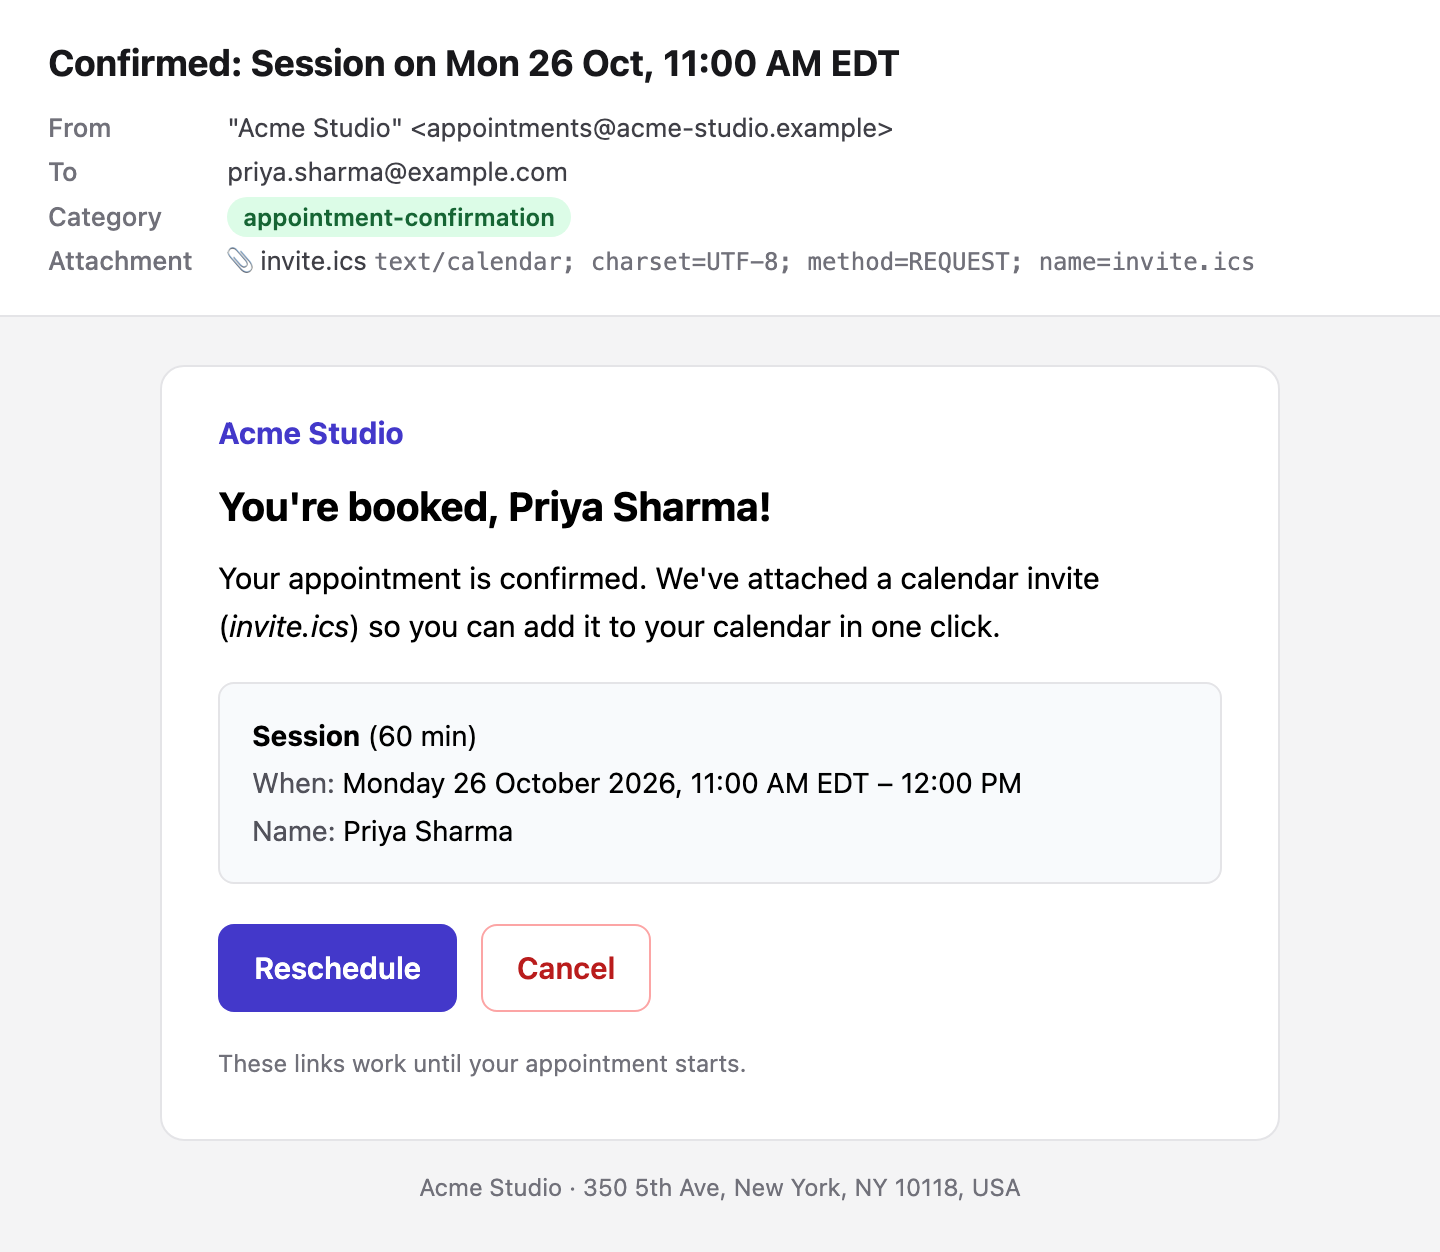
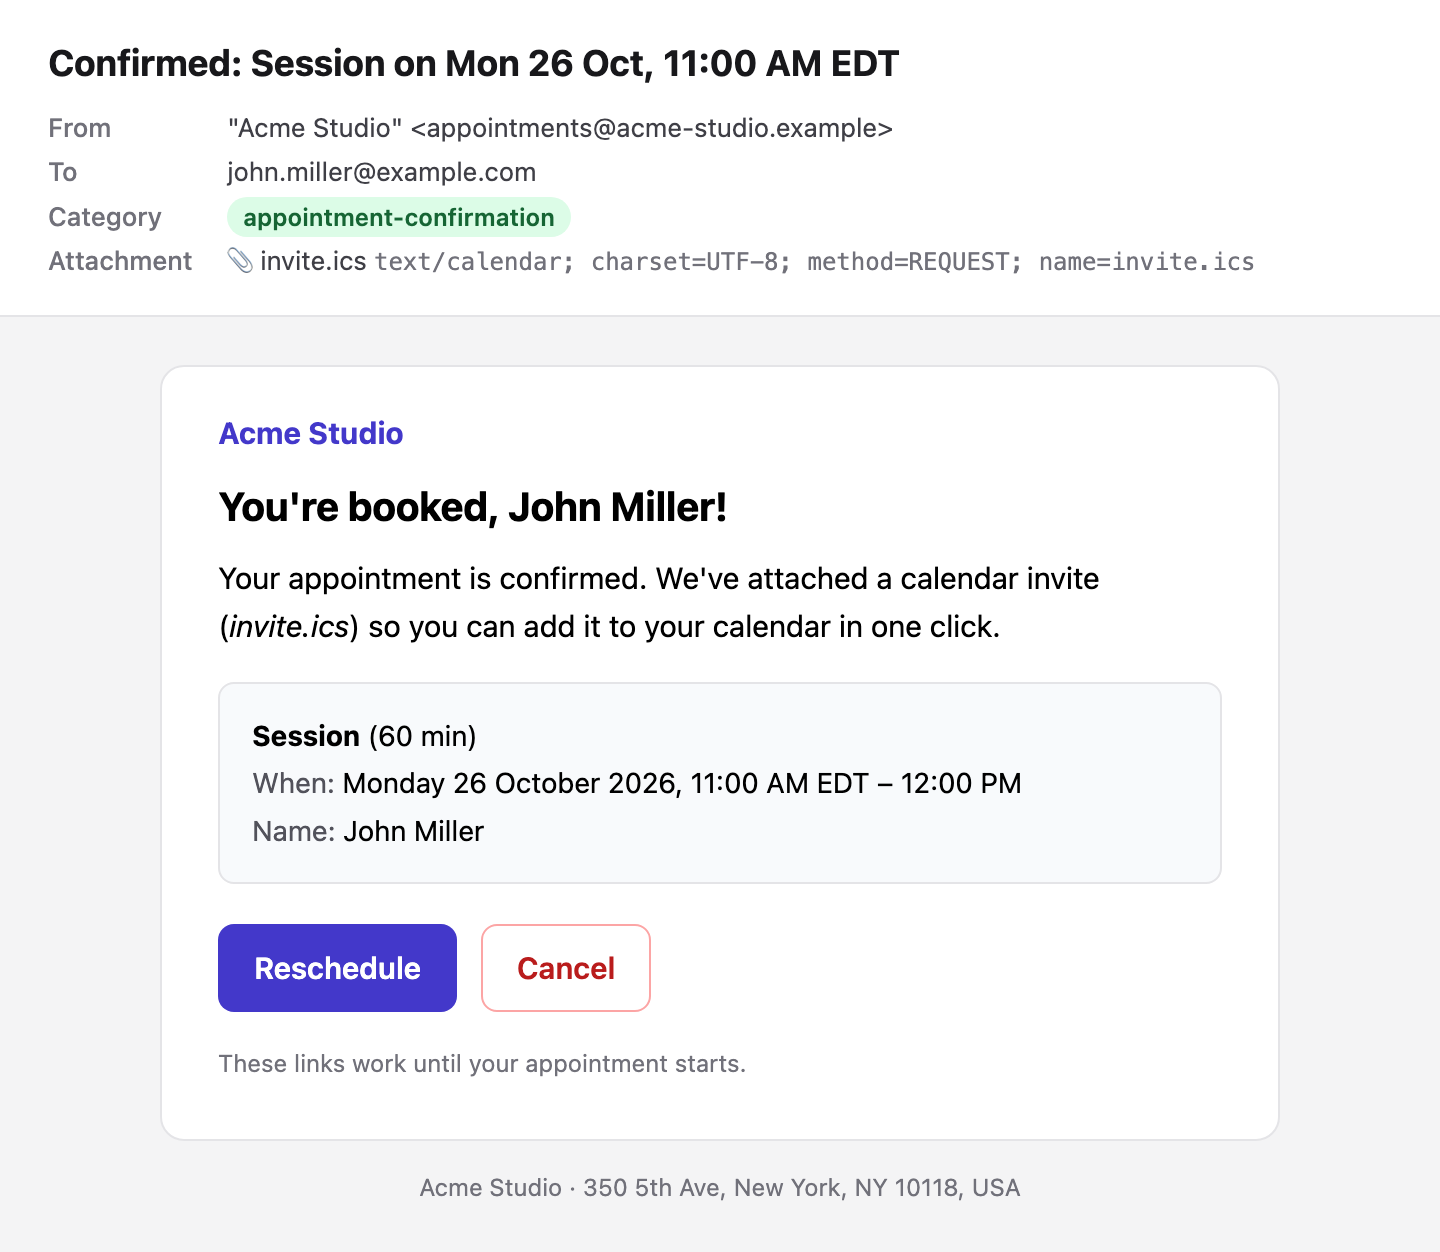
Update screenshots and README sample customer to John Miller

Changed region(s): [[0.3438, 0.3738, 0.5312, 0.4361], [0.1562, 0.1246, 0.4062, 0.1558], [0.2188, 0.6542, 0.3438, 0.6853]]

diff --git a/README.md b/README.md
@@ -288,7 +288,7 @@ The other emails:
 | Confirmation (+ `invite.ics`) | customer | `appointment-confirmation` | `Confirmed: Consultation on Fri 23 Oct, 3:00 PM EDT` |
 | Rescheduled (+ `invite.ics`) | customer | `appointment-reschedule` | `Rescheduled: Consultation moved to Sat 24 Oct, 12:00 PM EDT` |
 | Cancelled (+ `cancel.ics`) | customer | `appointment-cancellation` | `Cancelled: Session on Mon 26 Oct, 11:00 AM EDT` |
-| Owner notification | `OWNER_EMAIL` | `owner-notification` | `New booking: …` · `Rescheduled: …` · `Cancelled: … with Priya Sharma on …` |
+| Owner notification | `OWNER_EMAIL` | `owner-notification` | `New booking: …` · `Rescheduled: …` · `Cancelled: … with John Miller on …` |
 
 ## Calendar invites
 
@@ -326,7 +326,7 @@ LOCATION:350 5th Ave\, New York\, NY 10118\, USA
 ORGANIZER;CN=Acme Studio:MAILTO:appointments@your-verified-domain.com
 SEQUENCE:0
 LAST-MODIFIED:20261015T065821Z
-ATTENDEE;CN=Priya Sharma;ROLE=REQ-PARTICIPANT;RSVP=FALSE:MAILTO:priya@example.com
+ATTENDEE;CN=John Miller;ROLE=REQ-PARTICIPANT;RSVP=FALSE:MAILTO:john.miller@example.com
 END:VEVENT
 END:VCALENDAR
 ```
